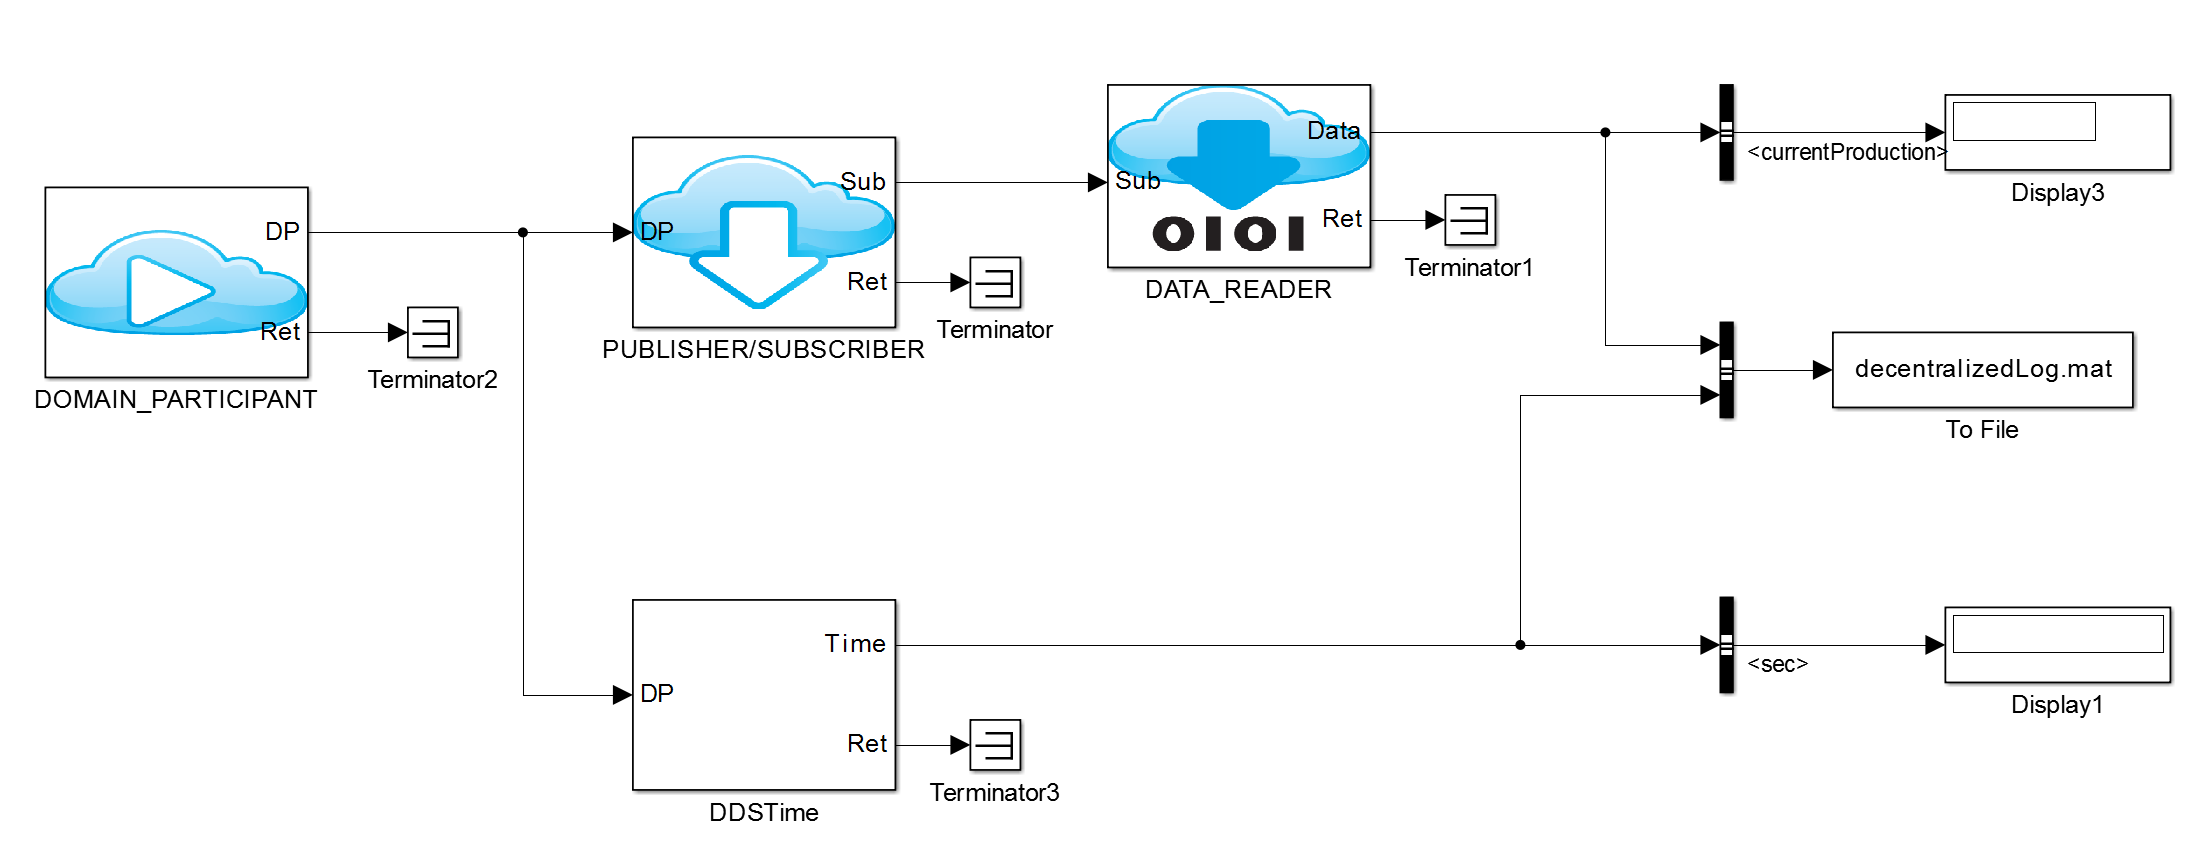
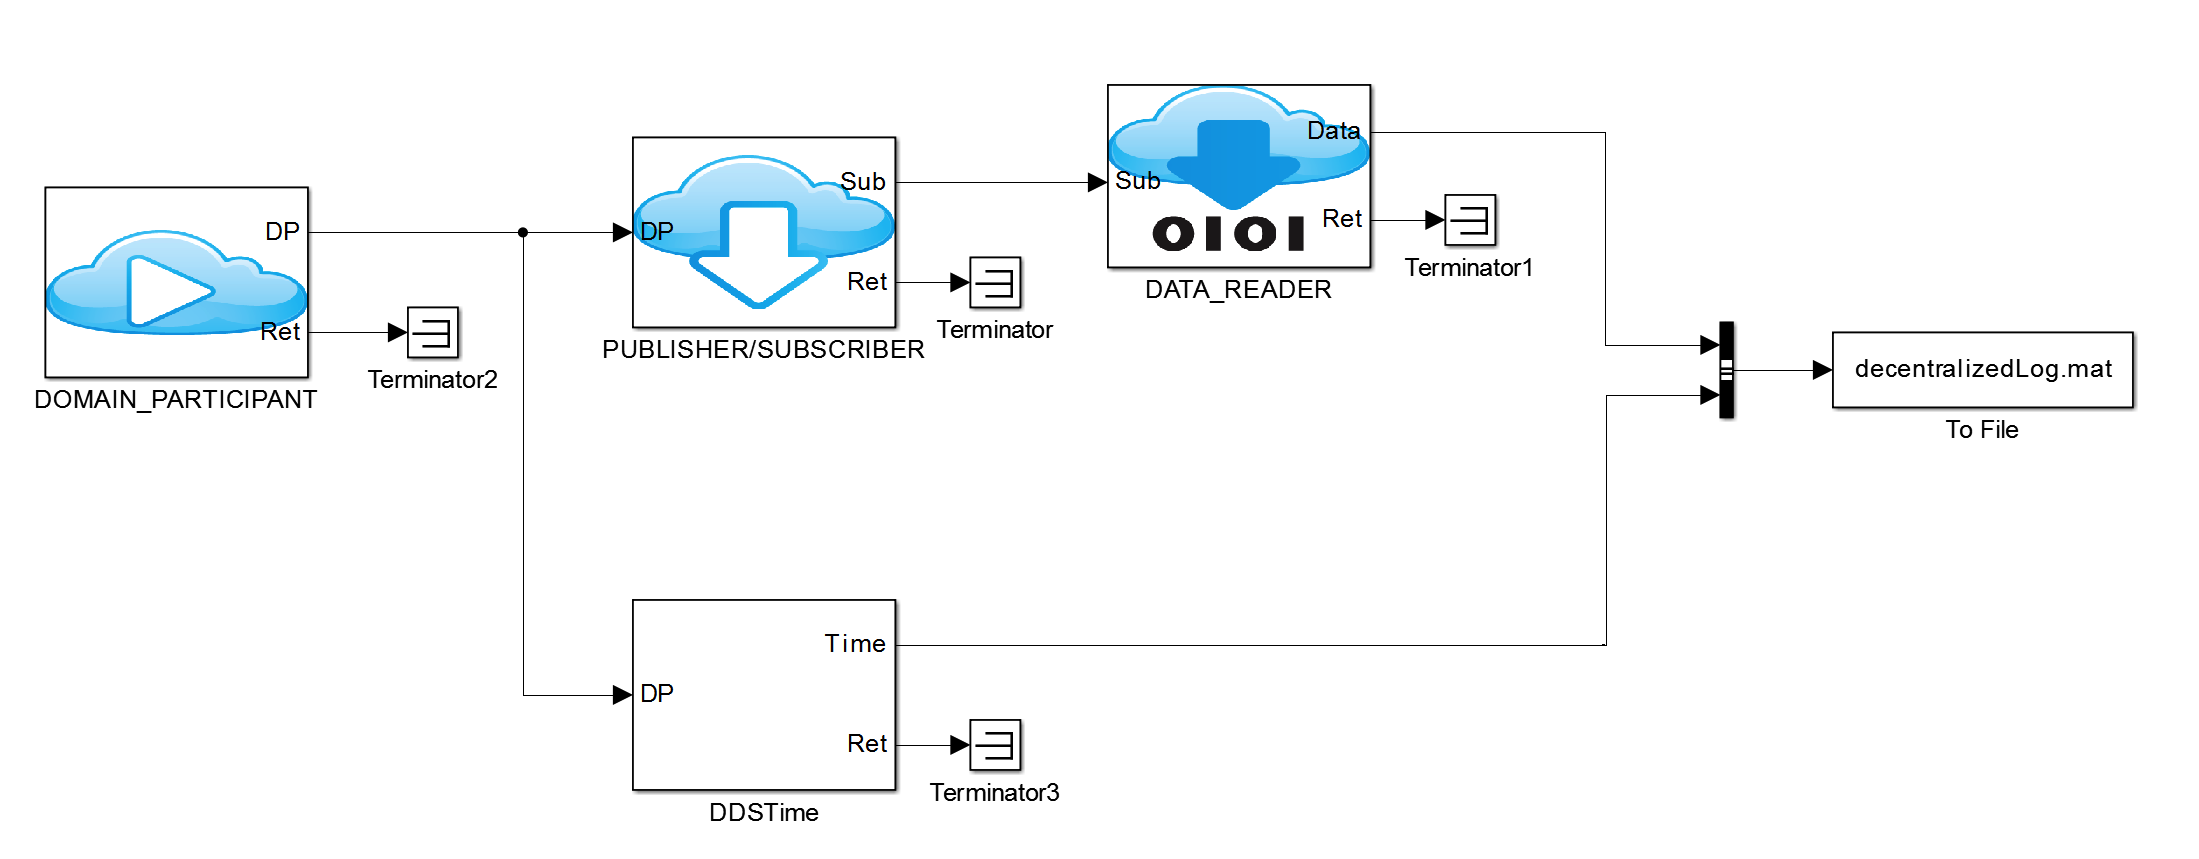
Added description of simulink models

diff --git a/Report/DecentralizedSystem.tex b/Report/DecentralizedSystem.tex
@@ -47,6 +47,18 @@ Currently only the decentralized system can be visualized and controlled using t
 RTI has created a Blockset for Simulink allowing a Simulink model to interact with the DDS Participant and other entities in a DDS enabled network.
 The blockset consists of a toolbox containing 6 blocks. Common for all blocks except the DDS Time block is that they can be configured with a default or custom Quality of Service profile as well as a sample time. The Quality of Service profile must match the profile used in the network you want to participate in. The sample time is related to the Simulink model and specifies the timeinterval between samples.
 
+\begin{figure}[h]
+\includegraphics[width=\textwidth]{figures/DDSBlockset}
+\captionsetup{format=plain,font=footnotesize,labelfont={bf,defaultCapFont},labelsep=quad,singlelinecheck=no}
+	\caption[DDSBlockset blocks for Simulink]{
+		\label{fig:DDSBlocksetBlocks} 
+		\footnotesize{%
+			DDSBlockset blocks for Simulink.
+		}
+	}
+\end{figure}
+
+
 \paragraph{The DomainParticipant block} is the equivalent to the DomainParticipant entity in DDS. This block allows for configuration of the DomainID which links the DomainParticipant to a specific DDS domain.
 
 \paragraph{The Publisher/Subscriber block} can be configured as either a Publisher or a Subscriber and will act as either based on the chosen configuration.
@@ -71,9 +83,32 @@ DDS Blockset for Simulink has an import feature available for import of Interfac
 Since Matlab does not provide a compiler fro C++ on x64 systems one must be downloaded. Microsoft provides a compiler in the Microsoft Windows SDK 7.1. Matlab must be told to use the compiler by using the mex -setup command. Finally the location of the binaries and the libraries that is downloaded with the new compiler must be added to path.
 
 \subsection{Simulink model of the decentralized system}\label{subsec:decentralizedmodel}
+
+\begin{figure}[b]
+\includegraphics[width=\textwidth]{figures/DecentralizedModel}
+\captionsetup{format=plain,font=footnotesize,labelfont={bf,defaultCapFont},labelsep=quad,singlelinecheck=no}
+	\caption[Decentralized Simulink model]{
+		\label{fig:decentralizedSimulinkModel} 
+		\footnotesize{%
+			Decentralized Simulink model.
+		}
+	}
+\end{figure}
+
 The Simulink model of the decentralized system is simple. The decentralized Simulink model has a DomainParticipant block in order to be able to receive data from the same domain as the turbines. It also has a Time block to enable logging and graphing of the current DDS time. Since the decentralized system only uses one DDS message type, TurbineMessage \{INSERT REFERENCE\}, to communicate between all the turbines in the system, the decentralized Simulink model has only one Subscriber block and one DataReader block. The Subscriber block specifies the topic to subscribe to and the DataReader block receives events every time a new TurbineMessage is available. The TurbineMessage that is received is logged to a .mat file together with the current DDS time for later use.
 
 In order to transfer data from the Simulink model to Matlab eventlisteners must be implemented in a Matlab .m file. In the decentralized system the eventhandler listens for incoming events on the bus object that receives new data from the DataReader block. When new data is received the event fires and data can be collected from the Simulink model. Furthermore model execution can be controlled from Matlab, as well as parameters like model runtime.
 
 \subsection{Simulink model of the centralized system}\label{subsec:centralizedmodel}
 The Simulink model of the centralized system is a bit more complex. The centralized system contains three different messagetypes, TurbineDataMessage, RequestMessage, SetpointMessage, \{INSERT REFRENCE\} that all run on different topics. Because of this the centralized Simulink model contains one DomainParticipant, three Subscribers, one for each topic, and three DataReaders, one for each message type, in order to capture the communication in the centralized system. Every message received is logged to a .mat file together with the current DDS time.
+
+\begin{figure}[h]
+\includegraphics[width=\textwidth]{figures/CentralizedModel}
+\captionsetup{format=plain,font=footnotesize,labelfont={bf,defaultCapFont},labelsep=quad,singlelinecheck=no}
+	\caption[Centralized Simulink model]{
+		\label{fig:centralizedSimulinkModel} 
+		\footnotesize{%
+			Centralized Simulink model.
+		}
+	}
+\end{figure}
